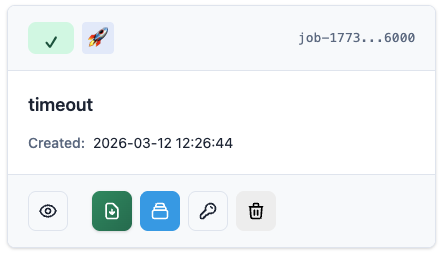
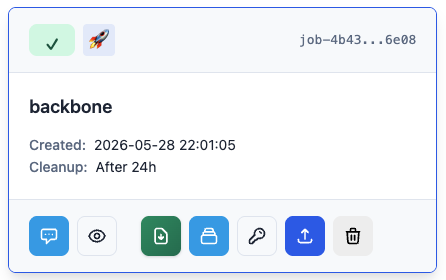
feat: 📑 Update documentation

diff --git a/docs/admin.md b/docs/admin.md
@@ -19,6 +19,8 @@ As an admin (trainer, speaker, ...), you have access to the admin space to manag
     * [x] Delete workspaces (one by one or in bulk)
     * [x] Retry a failing lab installation
 * [x] View student feedback per lab (rating, difficulty, comments)
+* [x] View deployment statistics (KPIs, monthly chart, per-project breakdown)
+* [x] Configure automatic workspace and lab deletion (cleaning policies)
 
 ![Admin header](screens/admin.png)
 
@@ -86,12 +88,6 @@ You need to setup the secrets for the Coder instance:
     * `Coder Db Name`: The name of the coder database
     * `Coder Template Name`: The name of the coder template
 
-#### Workspace Lifetime
-
-Set **Workspace Lifetime (hours)** to automatically delete student workspaces after a given duration. The server checks every 5 minutes and deletes any workspace whose creation time exceeds the configured limit.
-
-Leave the field empty or set it to `0` to disable automatic cleanup (workspaces persist until deleted manually).
-
 Then, you need to define **one or more** [Coder templates](https://coder.com/docs/admin/templates){target="_blank"} for the lab. Each template is a different workspace type (e.g. Docker, Go, Node) that students can choose when requesting a workspace.
 
 ![Coder template selection](screens/templates.png)
@@ -115,10 +111,14 @@ By default, Coder is exposed via a plain HTTP LoadBalancer IP. To expose it over
 * **ACME Email** — email address used for Let's Encrypt certificate notifications. Required when domain is set.
 * **Wildcard Domain** — optional, e.g. `*.coder.example.com`. Enables per-workspace URLs (requires a DNS provider configured below).
 
+![DNS configuration](screens/dns-config.png)
+
 When a domain is set, the following additional components are deployed into the cluster:
 
 * **ingress-nginx** — Kubernetes ingress controller (gets its own LoadBalancer IP, exported as `ingressIP`).
 * **cert-manager** — automates TLS certificate issuance from Let's Encrypt.
+
+![DNS configuration](screens/dns.png)
 
 After `pulumi up` completes, the stack output `ingressIP` is printed. **You must create a DNS A record** pointing `<domain> → <ingressIP>` in your DNS provider before the TLS certificate can be issued.
 
@@ -151,7 +151,31 @@ Coder templates can define Terraform `variable` blocks that need values at insta
 
 **Manual entry** — Click **+ Add Variable** to manually add a variable name and value. This is useful when you already know the variables your template expects.
 
+![Template variables](screens/variables.png)
+
 Required variables (those without a default value in the `.tf` source) must be given a value before the template can be installed successfully. If a required variable is left empty, Coder will reject the template version during provisioning.
+
+### Cleaning Configuration (Step 8)
+
+The last step of the wizard lets you configure automatic cleanup policies for both workspaces and the entire lab.
+
+![Cleaning configuration step](screens/cleaning-config.png){width=700}
+
+#### Workspace Lifetime
+
+Set **Workspace Lifetime** (with a unit of Hours or Days) to automatically delete student workspaces after a given duration. The cleanup service checks at a regular interval (default 5 minutes, configurable via `CLEANUP_INTERVAL_MINUTES`) and deletes any workspace whose creation time exceeds the limit.
+
+Leave the field at `0` or leave it empty to disable automatic workspace cleanup.
+
+#### Lab Deletion
+
+Set a **Date** (and optionally a **Time**) for the entire lab to be automatically destroyed. When the scheduled date/time is reached, EasyLab runs `pulumi destroy` on the lab without any manual action.
+
+* If only a date is set, the lab is destroyed at 23:59 that day.
+* Leave the date empty to disable scheduled lab deletion.
+
+!!! note
+    The cleanup service also runs scheduled lab deletion checks at the same interval as workspace cleanup. Set `CLEANUP_INTERVAL_MINUTES` to a lower value if you need finer-grained precision (default is 5 minutes).
 
 ## Dry run (preview before create)
 
@@ -180,6 +204,8 @@ When enabled, a **Sign in with Microsoft** button appears on the student login p
 2. After a successful Microsoft login, EasyLab creates a local session using the student's email address.
 3. When the student first requests a workspace, a Coder account is provisioned automatically using that email address and a server-generated password — identical to the password-based flow. Azure AD is never configured on Coder itself.
 
+![Student Microsoft login](screens/student-login-microsoft.png){ width=300 }
+
 ---
 
 ### Admin authentication
@@ -193,6 +219,10 @@ When an **Admin Group ID** is configured, a **Sign in with Microsoft** button al
 3. If the user is in the group, a normal admin session is created and the user is redirected to `/admin`. Otherwise, login is rejected with an error.
 
 The admin password login remains available alongside Microsoft login — both methods work simultaneously.
+
+![Admin Microsoft login](screens/admin-login-microsoft.png){ width=300 }
+
+Once an **Admin Group ID** is saved, an additional option appears: **Disable password login for admins**. When this checkbox is enabled, the admin password form is hidden and admins can only log in via Microsoft. Has no effect if the Admin Group ID is not set.
 
 ---
 
@@ -222,7 +252,14 @@ The easiest way to configure Azure AD is through the admin interface:
 
 The configuration is persisted to disk and takes effect immediately — no restart required. Click **Disable Azure AD Login** (visible when a client ID is saved) to clear the configuration.
 
-Once a client ID is saved, an additional option appears: **Disable password login for students**. When this checkbox is enabled, the student password form is hidden on the login page and students can only authenticate via Microsoft. Has no effect if Azure AD is not configured.
+![Azure AD configuration form](screens/azure-ad-config.png){width=700}
+
+Once a client ID is saved, two additional options appear under **Login restrictions**:
+
+* **Disable password login for students** — hides the student password form; students can only authenticate via Microsoft.
+* **Disable password login for admins** — hides the admin password form on `/login`; only visible when an Admin Group ID is also set. Admins can only log in via Microsoft.
+
+Neither option has any effect if Azure AD is not configured.
 
 ### Configuration — environment variables (alternative)
 
@@ -270,6 +307,7 @@ You can see all the labs you have created with following information:
 * **Retrieve Coder credentials** — For completed labs, a **Coder admin credentials** button opens a modal with the Coder URL, admin email, and admin password. You can copy each value or show/hide the password. Use these to sign in to the Coder instance for that lab.
 * **Actions** — Destroy a lab; **Recreate** a destroyed lab with the same configuration (same Coder template, options, etc.)
 * **List of workspaces** created for this lab — delete workspaces one by one or in bulk
+* **Cleanup** - Display the cleanup policy for the lab (*i.e. after how many hours/days the workspaces will be deleted*)
 
 ![Lab Workspaces](screens/list-workspaces.png){width=350}
 
@@ -294,3 +332,34 @@ The page shows:
 If no feedback has been submitted yet, an empty state is displayed.
 
 ![Admin feedback](screens/feedbacks.png){width=45%}
+
+## Stats Dashboard
+
+Navigate to **Stats** (accessible from the header or `/admin/stats`) to see aggregated deployment metrics.
+
+### Project selector
+
+Use the **Select a Project** dropdown to scope the view to a single lab stack name, or choose **All Projects** for a combined view.
+
+### KPI cards
+
+Four summary cards are shown at the top of the page:
+
+![Stats KPI cards](screens/stats-kpi.png){width=700}
+
+| Card | Description |
+|------|-------------|
+| **Workspaces Used** | Total number of workspaces ever provisioned across all tracked jobs |
+| **Currently Active** | Number of completed (live) labs at the time of the last check |
+| **Failed** | Number of labs that ended in a failed state |
+| **Workspaces Auto-cleaned** | Cumulative count of workspaces deleted by the automatic cleanup service |
+
+### Activity chart
+
+A stacked bar chart shows the monthly breakdown of lab deployments (Succeeded / Failed / Destroyed) on the left axis, overlaid with a line showing the number of workspaces auto-cleaned that month on the right axis.
+
+### Per-project breakdown
+
+When **All Projects** is selected, a summary table is shown below the chart listing each project with its total, active, and failed lab counts.
+
+![Per-project stats breakdown](screens/stats-projects.png){width=700}

diff --git a/docs/docker.md b/docs/docker.md
@@ -54,6 +54,7 @@ The application can be configured using the following environment variables:
 - `PORT`: Port to run the application on (default: 8080)
 - `WORK_DIR`: Directory for job workspaces (default: /app/jobs)
 - `DATA_DIR`: Directory for persisting job data (default: /app/data)
+- `CLEANUP_INTERVAL_MINUTES`: How often (in minutes) the cleanup service checks for expired workspaces and scheduled lab deletions (default: 5)
 
 **Azure AD student login** (optional — all three required to enable):
 